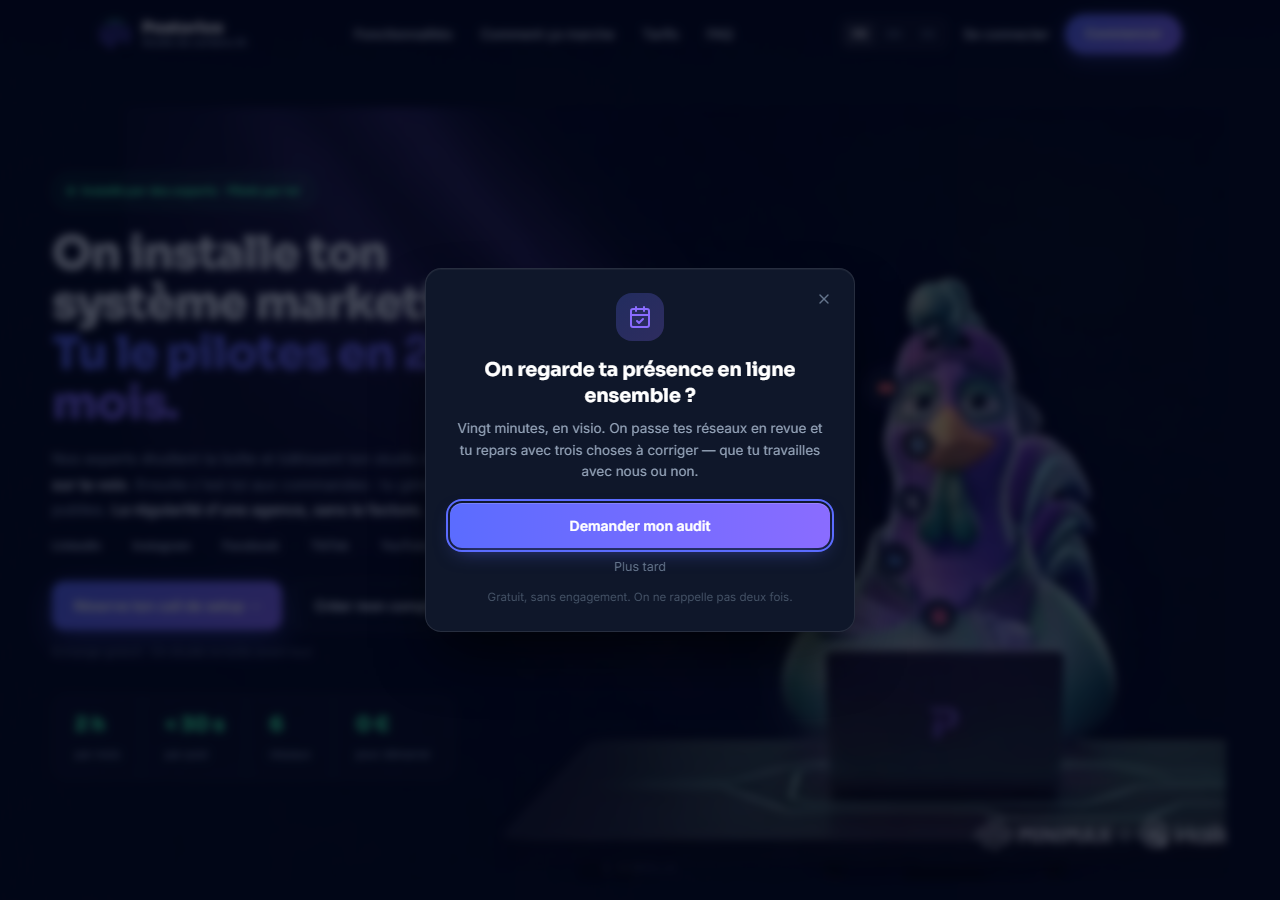
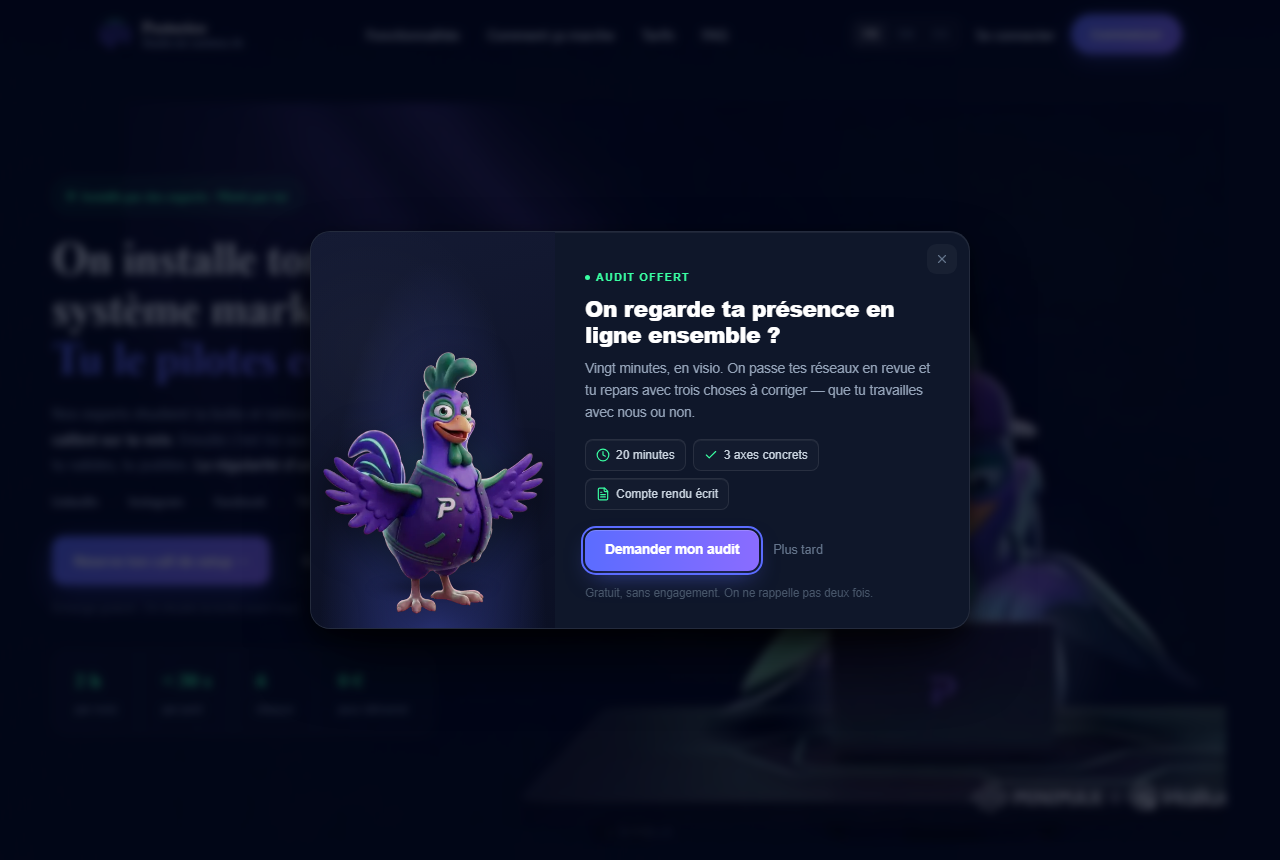
feat(site): popup rendez-vous en deux colonnes, Rico a gauche
Direction A retenue sur maquette : panneau bleu nuit plutot qu'aplat de
marque. La fenetre s'ouvre par-dessus un site deja sombre, un aplat violet
plein aurait fait banniere publicitaire la ou le halo fait scene — et le
violet de Rico ressort mieux sur le bleu nuit que sur du violet.

Deux details qui portent le rendu : Rico deborde le bas du cadre, une
silhouette qui touche le bord a l'air dessinee dedans et non collee dessus ;
le halo mint et l'ombre de contact le posent dans un lieu, sans eux un
personnage detoure flotte.

Sur telephone la colonne bascule en bandeau et les jalons disparaissent :
trois etiquettes de plus feraient descendre le bouton sous la ligne de
flottaison. Mesure au navigateur — bouton entierement visible en 390x844
comme en 1280x860.

diff --git a/_design/apercu-popup-rdv-v2.html b/_design/apercu-popup-rdv-v2.html
@@ -1,0 +1,208 @@
+<!doctype html>
+<html lang="fr">
+<head>
+<meta charset="utf-8">
+<meta name="viewport" content="width=device-width, initial-scale=1">
+<title>Popup rendez-vous — deux directions</title>
+<link rel="preconnect" href="https://fonts.googleapis.com">
+<link href="https://fonts.googleapis.com/css2?family=Sora:wght@600;700;800&family=Inter:wght@400;500;600&display=swap" rel="stylesheet">
+<style>
+:root{
+  --fond:#020617; --carte:#0f172a; --bord:rgba(255,255,255,.09);
+  --texte:#e2e8f0; --doux:#94a3b8; --faible:#64748b; --tres-faible:#475569;
+  --primaire:#5B6CFF; --primaire2:#8A6CFF; --accent:#3AFFA3;
+  --sortie:cubic-bezier(.23,1,.32,1);
+  --sora:'Sora',ui-sans-serif,system-ui,'Segoe UI',sans-serif;
+  --inter:'Inter',ui-sans-serif,system-ui,'Segoe UI',sans-serif;
+  --lumiere:inset 0 1px 0 rgba(255,255,255,.06);
+  --ombre-3:0 8px 20px rgba(0,0,0,.5), 0 34px 68px -14px rgba(0,0,0,.8);
+}
+*{box-sizing:border-box}
+body{margin:0;background:#070a16;color:var(--texte);font-family:var(--inter);font-size:14px;
+     line-height:1.5;-webkit-font-smoothing:antialiased;padding:34px 20px 70px}
+.page{max-width:1120px;margin:0 auto}
+h1{font-family:var(--sora);font-size:20px;font-weight:800;margin:0 0 4px;color:#fff;letter-spacing:-.3px}
+.chapeau{color:var(--doux);font-size:13px;margin:0 0 26px;max-width:70ch}
+.etiq{display:inline-block;font-size:10.5px;font-weight:700;letter-spacing:.1em;text-transform:uppercase;
+      padding:3px 9px;border-radius:6px;background:rgba(91,108,255,.16);color:#b9c1ff;margin-bottom:11px}
+.note{font-size:12.5px;color:var(--faible);margin:11px 0 30px;max-width:74ch}
+
+/* ---------- la boite de dialogue ---------- */
+.modale{position:relative;display:flex;overflow:hidden;border-radius:20px;
+        border:1px solid var(--bord);background:var(--carte);
+        box-shadow:var(--lumiere),var(--ombre-3);
+        animation:entrer 280ms var(--sortie) both}
+@keyframes entrer{from{opacity:0;transform:translateY(10px) scale(.97)}to{opacity:1;transform:none}}
+.modale{width:min(660px,100%)}
+
+/* La colonne visuelle. Un halo, pas une photo posee : la mascotte doit avoir
+   l'air d'etre dans un lieu, meme abstrait. */
+.visuel{position:relative;flex:0 0 244px;overflow:hidden;
+        background:radial-gradient(ellipse at 50% 108%,rgba(91,108,255,.42),transparent 66%),
+                   linear-gradient(165deg,#141a33,#0b1024)}
+.visuel::before{content:'';position:absolute;left:50%;top:-46px;width:210px;height:300px;
+  transform:translateX(-50%);
+  background:conic-gradient(from 180deg at 50% 0%,transparent 42%,rgba(138,108,255,.34) 50%,transparent 58%);
+  filter:blur(12px)}
+.halo{position:absolute;left:50%;bottom:44px;width:168px;height:168px;transform:translateX(-50%);
+  border-radius:50%;background:radial-gradient(circle,rgba(58,255,163,.20),transparent 64%);filter:blur(16px)}
+.sol{position:absolute;left:50%;bottom:34px;width:132px;height:13px;transform:translateX(-50%);
+  border-radius:50%;background:radial-gradient(ellipse,rgba(0,0,0,.62),transparent 70%);filter:blur(5px)}
+/* Rico deborde le bas du cadre : une silhouette qui touche le bord a l'air
+   dessinee dedans, pas collee dessus. */
+.rico{position:absolute;left:50%;bottom:14px;height:262px;transform:translateX(-50%);
+  filter:drop-shadow(0 12px 18px rgba(0,0,0,.55))}
+.grain{position:absolute;inset:0;opacity:.5;
+  background:radial-gradient(circle at 24% 30%,rgba(255,255,255,.05),transparent 42%)}
+
+/* ---------- la colonne texte ---------- */
+.propos{flex:1;padding:30px 30px 26px;min-width:0}
+.sur-titre{display:inline-flex;align-items:center;gap:6px;font-size:11px;font-weight:700;
+  letter-spacing:.1em;text-transform:uppercase;color:var(--accent);margin-bottom:10px}
+.sur-titre .pt{width:5px;height:5px;border-radius:50%;background:var(--accent)}
+.modale h2{font-family:var(--sora);font-size:22px;font-weight:800;line-height:1.18;letter-spacing:-.5px;
+  margin:0;color:#fff}
+.modale p.dit{font-size:13.5px;color:var(--doux);line-height:1.62;margin:11px 0 0}
+.jalons{display:flex;flex-wrap:wrap;gap:7px;margin:16px 0 0}
+.jalon{display:inline-flex;align-items:center;gap:6px;font-size:12px;color:#cbd5e1;
+  border:1px solid var(--bord);border-radius:8px;padding:5px 10px;background:rgba(255,255,255,.02);
+  box-shadow:var(--lumiere)}
+.jalon svg{color:var(--accent);flex-shrink:0}
+.actions{display:flex;align-items:center;gap:14px;margin-top:20px}
+.btn{border:0;border-radius:11px;padding:11px 20px;font:inherit;font-size:13.5px;font-weight:600;color:#fff;
+  cursor:pointer;background:linear-gradient(135deg,var(--primaire),var(--primaire2));
+  box-shadow:inset 0 1px 0 rgba(255,255,255,.18),0 2px 5px rgba(0,0,0,.3),
+             0 10px 24px -7px rgba(91,108,255,.55);
+  transition:transform 150ms var(--sortie),filter 150ms var(--sortie),box-shadow 150ms var(--sortie)}
+.btn:hover{filter:brightness(1.08);box-shadow:inset 0 1px 0 rgba(255,255,255,.22),0 3px 7px rgba(0,0,0,.32),
+             0 14px 30px -7px rgba(91,108,255,.65)}
+/* Presse = pose : l'ombre se resserre pendant que le bouton retrecit. */
+.btn:active{transform:scale(.97);box-shadow:inset 0 1px 0 rgba(255,255,255,.1),0 1px 2px rgba(0,0,0,.4),
+             0 2px 7px -2px rgba(91,108,255,.4)}
+.plus-tard{background:none;border:0;font:inherit;font-size:12.5px;color:var(--faible);cursor:pointer;
+  padding:4px 2px;transition:color 150ms var(--sortie)}
+.plus-tard:hover{color:var(--texte)}
+.rassure{font-size:11.5px;color:var(--tres-faible);margin:14px 0 0}
+.fermer{position:absolute;top:13px;right:13px;z-index:3;width:30px;height:30px;border:0;border-radius:9px;
+  background:rgba(255,255,255,.04);color:var(--faible);cursor:pointer;display:grid;place-items:center;
+  transition:color 150ms var(--sortie),background-color 150ms var(--sortie),transform 150ms var(--sortie)}
+.fermer:hover{color:#fff;background:rgba(255,255,255,.1)}
+.fermer:active{transform:scale(.9)}
+
+/* ---------- direction B : le panneau colore ---------- */
+.b .visuel{background:linear-gradient(155deg,var(--primaire) 0%,var(--primaire2) 58%,#5a2fb0 100%)}
+.b .visuel::before{background:conic-gradient(from 180deg at 50% 0%,transparent 40%,rgba(255,255,255,.22) 50%,transparent 60%)}
+.b .halo{background:radial-gradient(circle,rgba(255,255,255,.24),transparent 62%)}
+.b .sol{background:radial-gradient(ellipse,rgba(40,14,90,.6),transparent 70%)}
+
+/* ---------- mobile : la colonne devient un bandeau ---------- */
+.mobile{width:376px}
+.mobile .modale{flex-direction:column;width:100%}
+.mobile .visuel{flex:0 0 176px;width:100%}
+.mobile .rico{height:196px;bottom:-4px}
+.mobile .halo{width:140px;height:140px;bottom:26px}
+.mobile .sol{bottom:20px;width:104px}
+.mobile .propos{padding:22px 22px 20px}
+.mobile .modale h2{font-size:19px}
+.duo{display:flex;gap:34px;align-items:flex-start;flex-wrap:wrap}
+
+@media (prefers-reduced-motion:reduce){*{animation:none!important;transition-duration:.01ms!important}}
+</style>
+</head>
+<body>
+<div class="page">
+  <h1>Proposition de rendez-vous — deux directions</h1>
+  <p class="chapeau">Même structure : la mascotte à gauche, le propos à droite. Ce qui change, c'est le
+    registre du panneau visuel. Survole et clique les boutons, les états sont réels.</p>
+
+  <!-- A -->
+  <span class="etiq">Direction A · le halo</span>
+  <div class="modale a">
+    <button class="fermer" aria-label="Fermer">
+      <svg width="14" height="14" viewBox="0 0 24 24" fill="none" stroke="currentColor" stroke-width="2.4" stroke-linecap="round"><path d="M18 6 6 18M6 6l12 12"/></svg>
+    </button>
+    <div class="visuel">
+      <div class="grain"></div><div class="halo"></div><div class="sol"></div>
+      <img class="rico" src="https://res.cloudinary.com/dy9gp5pim/image/upload/w_420,q_auto,f_auto/brand/rico-v2/accueille.png" alt="">
+    </div>
+    <div class="propos">
+      <span class="sur-titre"><span class="pt"></span>Audit offert</span>
+      <h2>On regarde ta présence en ligne ensemble ?</h2>
+      <p class="dit">Vingt minutes en visio. On passe tes réseaux en revue et tu repars avec trois choses
+        à corriger — que tu travailles avec nous ou non.</p>
+      <div class="jalons">
+        <span class="jalon"><svg width="13" height="13" viewBox="0 0 24 24" fill="none" stroke="currentColor" stroke-width="2.4"><circle cx="12" cy="12" r="9"/><path d="M12 7v5l3 2"/></svg>20 minutes</span>
+        <span class="jalon"><svg width="13" height="13" viewBox="0 0 24 24" fill="none" stroke="currentColor" stroke-width="2.6" stroke-linecap="round" stroke-linejoin="round"><path d="M20 6 9 17l-5-5"/></svg>3 axes concrets</span>
+        <span class="jalon"><svg width="13" height="13" viewBox="0 0 24 24" fill="none" stroke="currentColor" stroke-width="2.4" stroke-linecap="round"><path d="M12 3v12m0 0 4-4m-4 4-4-4M5 21h14"/></svg>Compte rendu écrit</span>
+      </div>
+      <div class="actions">
+        <button class="btn">Demander mon audit</button>
+        <button class="plus-tard">Plus tard</button>
+      </div>
+      <p class="rassure">Gratuit, sans engagement. On ne rappelle pas deux fois.</p>
+    </div>
+  </div>
+  <p class="note">Le panneau reste sombre : la fenêtre garde le registre du site, et le violet de Rico
+    ressort sur le bleu nuit. Le halo mint sous ses pieds le pose dans un lieu au lieu de le laisser flotter.</p>
+
+  <!-- B -->
+  <span class="etiq">Direction B · le panneau de marque</span>
+  <div class="modale b">
+    <button class="fermer" aria-label="Fermer">
+      <svg width="14" height="14" viewBox="0 0 24 24" fill="none" stroke="currentColor" stroke-width="2.4" stroke-linecap="round"><path d="M18 6 6 18M6 6l12 12"/></svg>
+    </button>
+    <div class="visuel">
+      <div class="grain"></div><div class="halo"></div><div class="sol"></div>
+      <img class="rico" src="https://res.cloudinary.com/dy9gp5pim/image/upload/w_420,q_auto,f_auto/brand/rico-v2/pouce-leve.png" alt="">
+    </div>
+    <div class="propos">
+      <span class="sur-titre"><span class="pt"></span>Audit offert</span>
+      <h2>On regarde ta présence en ligne ensemble ?</h2>
+      <p class="dit">Vingt minutes en visio. On passe tes réseaux en revue et tu repars avec trois choses
+        à corriger — que tu travailles avec nous ou non.</p>
+      <div class="jalons">
+        <span class="jalon"><svg width="13" height="13" viewBox="0 0 24 24" fill="none" stroke="currentColor" stroke-width="2.4"><circle cx="12" cy="12" r="9"/><path d="M12 7v5l3 2"/></svg>20 minutes</span>
+        <span class="jalon"><svg width="13" height="13" viewBox="0 0 24 24" fill="none" stroke="currentColor" stroke-width="2.6" stroke-linecap="round" stroke-linejoin="round"><path d="M20 6 9 17l-5-5"/></svg>3 axes concrets</span>
+      </div>
+      <div class="actions">
+        <button class="btn">Demander mon audit</button>
+        <button class="plus-tard">Plus tard</button>
+      </div>
+      <p class="rassure">Gratuit, sans engagement. On ne rappelle pas deux fois.</p>
+    </div>
+  </div>
+  <p class="note">Le dégradé de marque prend la moitié gauche. Plus affirmé, plus reconnaissable dans un
+    flux de captures d'écran — mais le violet de Rico se bat un peu avec le fond, il ressort moins.</p>
+
+  <!-- mobile -->
+  <span class="etiq">Sur téléphone</span>
+  <div class="duo">
+    <div class="mobile">
+      <div class="modale a">
+        <button class="fermer" aria-label="Fermer">
+          <svg width="14" height="14" viewBox="0 0 24 24" fill="none" stroke="currentColor" stroke-width="2.4" stroke-linecap="round"><path d="M18 6 6 18M6 6l12 12"/></svg>
+        </button>
+        <div class="visuel">
+          <div class="grain"></div><div class="halo"></div><div class="sol"></div>
+          <img class="rico" src="https://res.cloudinary.com/dy9gp5pim/image/upload/w_420,q_auto,f_auto/brand/rico-v2/accueille.png" alt="">
+        </div>
+        <div class="propos">
+          <span class="sur-titre"><span class="pt"></span>Audit offert</span>
+          <h2>On regarde ta présence en ligne ensemble ?</h2>
+          <p class="dit">Vingt minutes en visio. Tu repars avec trois choses à corriger — que tu
+            travailles avec nous ou non.</p>
+          <div class="actions">
+            <button class="btn" style="flex:1">Demander mon audit</button>
+          </div>
+          <p class="rassure">Gratuit, sans engagement.</p>
+        </div>
+      </div>
+    </div>
+    <p class="note" style="flex:1;min-width:260px;margin-top:0">La colonne bascule en bandeau : Rico garde
+      sa place mais perd de la hauteur, et les jalons disparaissent. Sur un écran de téléphone, trois
+      étiquettes de plus font descendre le bouton sous la ligne de flottaison — c'est exactement ce qu'il
+      ne faut pas.</p>
+  </div>
+</div>
+</body>
+</html>

diff --git a/frontend/src/components/PopupRdv.jsx b/frontend/src/components/PopupRdv.jsx
@@ -1,7 +1,7 @@
 import { useEffect, useRef, useState } from 'react';
 import { useLocation, useNavigate } from 'react-router-dom';
 import { useTranslation } from 'react-i18next';
-import { CalendarCheck, X } from 'lucide-react';
+import { X, Clock, Check, FileText } from 'lucide-react';
 
 import { isAuthenticated, isAdminAuthenticated } from '../lib/auth';
 import { isNativeApp } from '../lib/appDownload';
@@ -20,6 +20,7 @@ import { isNativeApp } from '../lib/appDownload';
 const DELAI_MS = 60_000;
 const CLE = 'postorico_rdv_vu';
 const REPOS_JOURS = 30;
+const RICO = 'https://res.cloudinary.com/dy9gp5pim/image/upload/w_420,q_auto,f_auto/brand/rico-v2/accueille.png';
 
 // Pages où la proposition n'a pas lieu d'être : on y est déjà en train de
 // convertir, ou on n'est pas un visiteur.
@@ -45,6 +46,14 @@ const marquerVu = () => {
 export function rdvDejaPris() {
   marquerVu();
 }
+
+const Jalon = ({ icone: Icone, children }) => (
+  <span className="inline-flex items-center gap-1.5 text-[12px] text-slate-300 font-inter
+                   rounded-lg border border-white/[0.09] bg-white/[0.02] px-2.5 py-1.5
+                   shadow-[inset_0_1px_0_rgba(255,255,255,0.06)]">
+    <Icone className="w-3.5 h-3.5 text-[#3AFFA3] flex-shrink-0" />{children}
+  </span>
+);
 
 export default function PopupRdv() {
   const { t } = useTranslation();
@@ -97,41 +106,78 @@ export default function PopupRdv() {
                   transition-opacity duration-200 ease-out motion-reduce:transition-none
                   ${sortie ? 'opacity-0' : 'opacity-100 animate-fondu'}`}>
       <div onClick={(e) => e.stopPropagation()}
-        className={`relative w-[min(430px,100%)] rounded-2xl border border-white/10 bg-[#0f172a] p-6 text-center
-                    shadow-[inset_0_1px_0_rgba(255,255,255,0.05),0_30px_60px_-14px_rgba(0,0,0,0.75)]
+        className={`relative flex flex-col sm:flex-row overflow-hidden w-[min(660px,100%)]
+                    rounded-[20px] border border-white/[0.09] bg-[#0f172a]
+                    shadow-[inset_0_1px_0_rgba(255,255,255,0.06),0_8px_20px_rgba(0,0,0,0.5),0_34px_68px_-14px_rgba(0,0,0,0.8)]
                     transition-[opacity,transform] ease-out-strong motion-reduce:transition-none
                     ${sortie ? 'opacity-0 scale-[0.97] [transition-duration:160ms]'
                              : 'opacity-100 scale-100 [transition-duration:260ms] animate-monter'}`}>
+
         <button onClick={fermer} aria-label={t('rdv.fermer')} data-testid="popup-rdv-fermer"
-          className="absolute top-3.5 right-3.5 w-8 h-8 grid place-items-center rounded-lg
-                     text-slate-500 hover:text-white hover:bg-white/[0.06] active:scale-90
+          className="absolute top-3 right-3 z-10 w-[30px] h-[30px] grid place-items-center rounded-[9px]
+                     bg-white/[0.04] text-slate-500 hover:text-white hover:bg-white/[0.1] active:scale-90
                      transition-[color,background-color,transform] duration-150 ease-out-strong">
-          <X className="w-4 h-4" />
+          <X className="w-3.5 h-3.5" />
         </button>
 
-        <div className="mx-auto w-12 h-12 rounded-2xl bg-gradient-to-br from-[#5B6CFF]/25 to-[#8A6CFF]/25
-                        grid place-items-center mb-4">
-          <CalendarCheck className="w-6 h-6 text-[#8A6CFF]" />
+        {/* La colonne visuelle. Un halo, pas une image posée : la mascotte doit
+            avoir l'air d'être dans un lieu, même abstrait. */}
+        <div className="relative flex-shrink-0 h-[176px] sm:h-auto sm:w-[244px] overflow-hidden"
+          style={{ background: 'radial-gradient(ellipse at 50% 108%, rgba(91,108,255,.42), transparent 66%), linear-gradient(165deg,#141a33,#0b1024)' }}>
+          <span className="absolute left-1/2 -top-12 w-[210px] h-[300px] -translate-x-1/2 blur-[12px]"
+            style={{ background: 'conic-gradient(from 180deg at 50% 0%, transparent 42%, rgba(138,108,255,.34) 50%, transparent 58%)' }} />
+          <span className="absolute inset-0 opacity-50"
+            style={{ background: 'radial-gradient(circle at 24% 30%, rgba(255,255,255,.05), transparent 42%)' }} />
+          {/* Sans halo ni ombre de contact, un personnage détouré flotte. */}
+          <span className="absolute left-1/2 -translate-x-1/2 bottom-[26px] sm:bottom-[44px]
+                           w-[140px] h-[140px] sm:w-[168px] sm:h-[168px] rounded-full blur-[16px]"
+            style={{ background: 'radial-gradient(circle, rgba(58,255,163,.20), transparent 64%)' }} />
+          <span className="absolute left-1/2 -translate-x-1/2 bottom-[20px] sm:bottom-[34px]
+                           w-[104px] sm:w-[132px] h-[13px] rounded-[50%] blur-[5px]"
+            style={{ background: 'radial-gradient(ellipse, rgba(0,0,0,.62), transparent 70%)' }} />
+          {/* Rico déborde le bas du cadre : une silhouette qui touche le bord a
+              l'air dessinée dedans, pas collée dessus. */}
+          <img src={RICO} alt="" aria-hidden="true"
+            className="absolute left-1/2 -translate-x-1/2 -bottom-1 sm:bottom-3.5 h-[196px] sm:h-[262px]
+                       drop-shadow-[0_12px_18px_rgba(0,0,0,0.55)]" />
         </div>
 
-        <h2 id="rdv-titre" className="font-sora font-bold text-white text-[19px] leading-snug">
-          {t('rdv.titre')}
-        </h2>
-        <p className="text-[13.5px] text-slate-400 font-inter mt-2 leading-relaxed">{t('rdv.texte')}</p>
+        <div className="flex-1 min-w-0 p-6 sm:p-[30px] sm:pb-[26px]">
+          <span className="inline-flex items-center gap-1.5 text-[11px] font-bold uppercase tracking-[0.1em]
+                           text-[#3AFFA3] mb-2.5 font-inter">
+            <span className="w-[5px] h-[5px] rounded-full bg-[#3AFFA3]" />{t('rdv.surTitre')}
+          </span>
+          <h2 id="rdv-titre" className="font-sora font-extrabold text-white text-[19px] sm:text-[22px]
+                                        leading-[1.18] tracking-[-0.5px]">
+            {t('rdv.titre')}
+          </h2>
+          <p className="text-[13.5px] text-slate-400 font-inter leading-[1.62] mt-2.5">{t('rdv.texte')}</p>
 
-        <button ref={boutonRef} onClick={aller} data-testid="popup-rdv-ok"
-          className="mt-5 w-full rounded-xl py-3 font-inter font-semibold text-[14px] text-white
-                     bg-gradient-to-r from-[#5B6CFF] to-[#8A6CFF] active:scale-[0.97]
-                     shadow-[inset_0_1px_0_rgba(255,255,255,0.16),0_8px_20px_-6px_rgba(91,108,255,0.5)]
-                     transition-transform duration-150 ease-out-strong">
-          {t('rdv.cta')}
-        </button>
-        <button onClick={fermer}
-          className="mt-2.5 text-[12.5px] text-slate-500 hover:text-slate-300 font-inter
-                     transition-colors duration-150">
-          {t('rdv.plusTard')}
-        </button>
-        <p className="text-[11.5px] text-slate-600 font-inter mt-3">{t('rdv.rassurance')}</p>
+          {/* Masqués sur téléphone : trois étiquettes de plus feraient descendre
+              le bouton sous la ligne de flottaison. */}
+          <div className="hidden sm:flex flex-wrap gap-[7px] mt-4">
+            <Jalon icone={Clock}>{t('rdv.jalon.duree')}</Jalon>
+            <Jalon icone={Check}>{t('rdv.jalon.axes')}</Jalon>
+            <Jalon icone={FileText}>{t('rdv.jalon.compteRendu')}</Jalon>
+          </div>
+
+          <div className="flex items-center gap-3.5 mt-5">
+            <button ref={boutonRef} onClick={aller} data-testid="popup-rdv-ok"
+              className="flex-1 sm:flex-none rounded-[11px] px-5 py-2.5 font-inter font-semibold text-[13.5px]
+                         text-white bg-gradient-to-r from-[#5B6CFF] to-[#8A6CFF] active:scale-[0.97]
+                         shadow-[inset_0_1px_0_rgba(255,255,255,0.18),0_2px_5px_rgba(0,0,0,0.3),0_10px_24px_-7px_rgba(91,108,255,0.55)]
+                         hover:shadow-[inset_0_1px_0_rgba(255,255,255,0.22),0_3px_7px_rgba(0,0,0,0.32),0_14px_30px_-7px_rgba(91,108,255,0.65)]
+                         transition-[transform,box-shadow,filter] duration-150 ease-out-strong hover:brightness-110">
+              {t('rdv.cta')}
+            </button>
+            <button onClick={fermer}
+              className="hidden sm:block text-[12.5px] text-slate-500 hover:text-slate-200 font-inter
+                         transition-colors duration-150 ease-out-strong">
+              {t('rdv.plusTard')}
+            </button>
+          </div>
+          <p className="text-[11.5px] text-slate-600 font-inter mt-3.5">{t('rdv.rassurance')}</p>
+        </div>
       </div>
     </div>
   );
